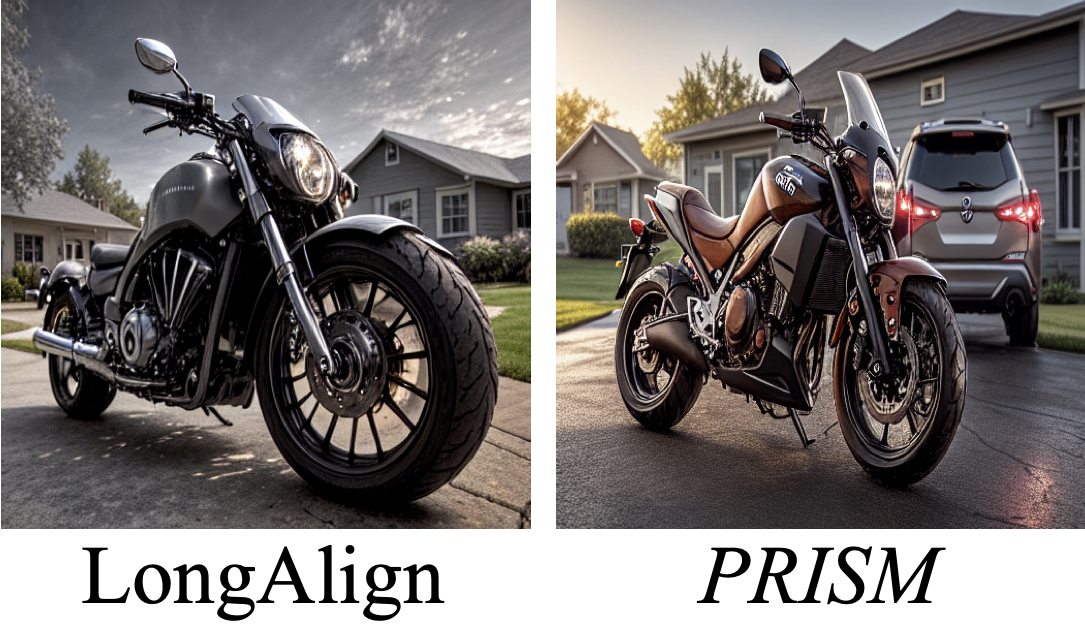
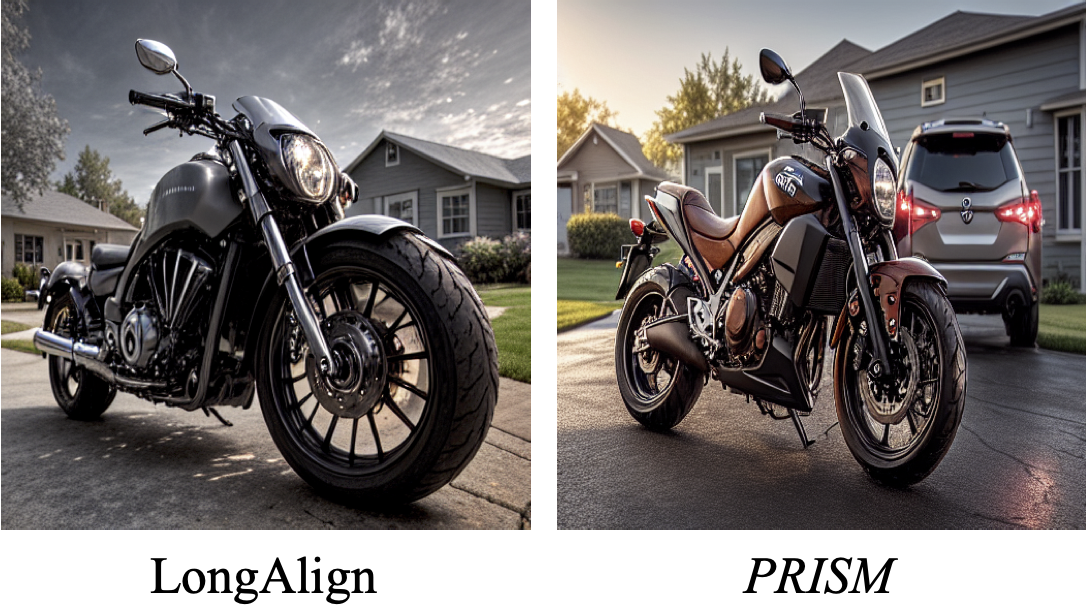
update teaser

diff --git a/index.html b/index.html
@@ -334,7 +334,7 @@
           </div>
           <div id="dit-prompt-box" style="width: 280px; overflow-y: auto; border: 1px solid #ddd; border-radius: 4px; padding: 12px; font-size: 0.85rem; line-height: 1.6; color: #444; background: #fafafa; box-sizing: border-box;"></div>
         </div>
-        <p style="text-align: center;">Generated samples across different model architectures</p>
+        <p style="text-align: center;">Comparison of image generation samples across state-of-the-art T2I models</p>
         <!-- Pagination -->
         <div style="margin-top: 12px; display: flex; justify-content: center; align-items: center; gap: 20px;">
           <button id="dit-prev" style="background: none; border: 2px solid #ccc; border-radius: 50%; width: 40px; height: 40px; cursor: pointer; font-size: 1.2rem; color: #666; transition: all 0.2s ease;">&#8592;</button>
